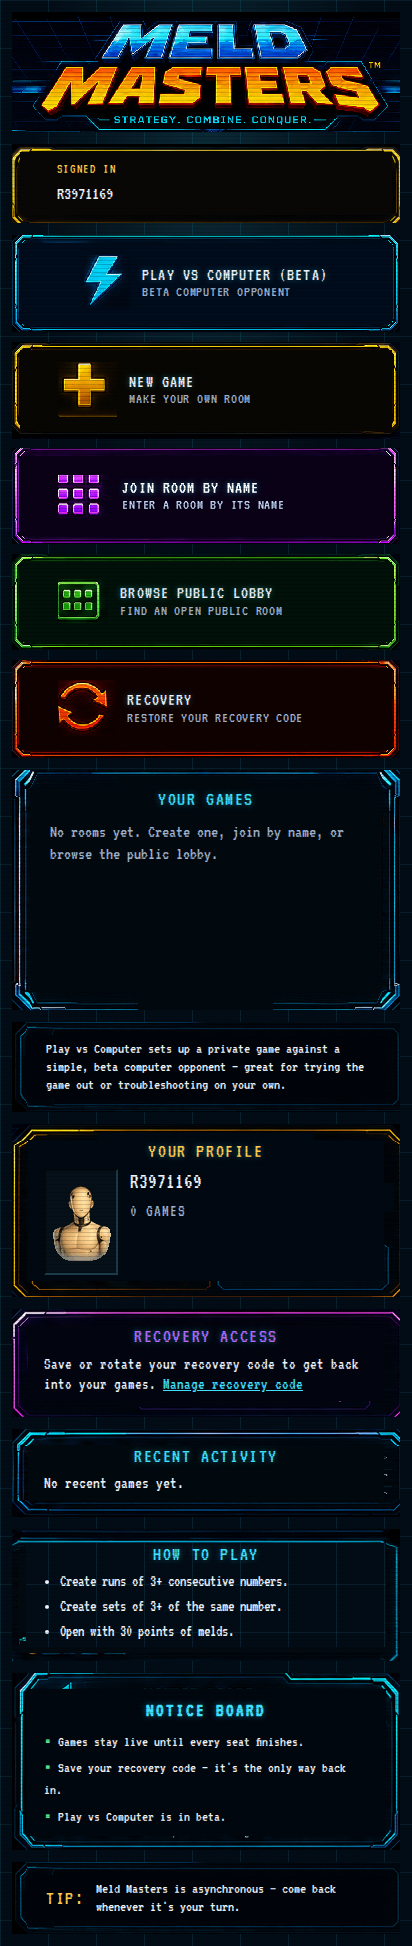
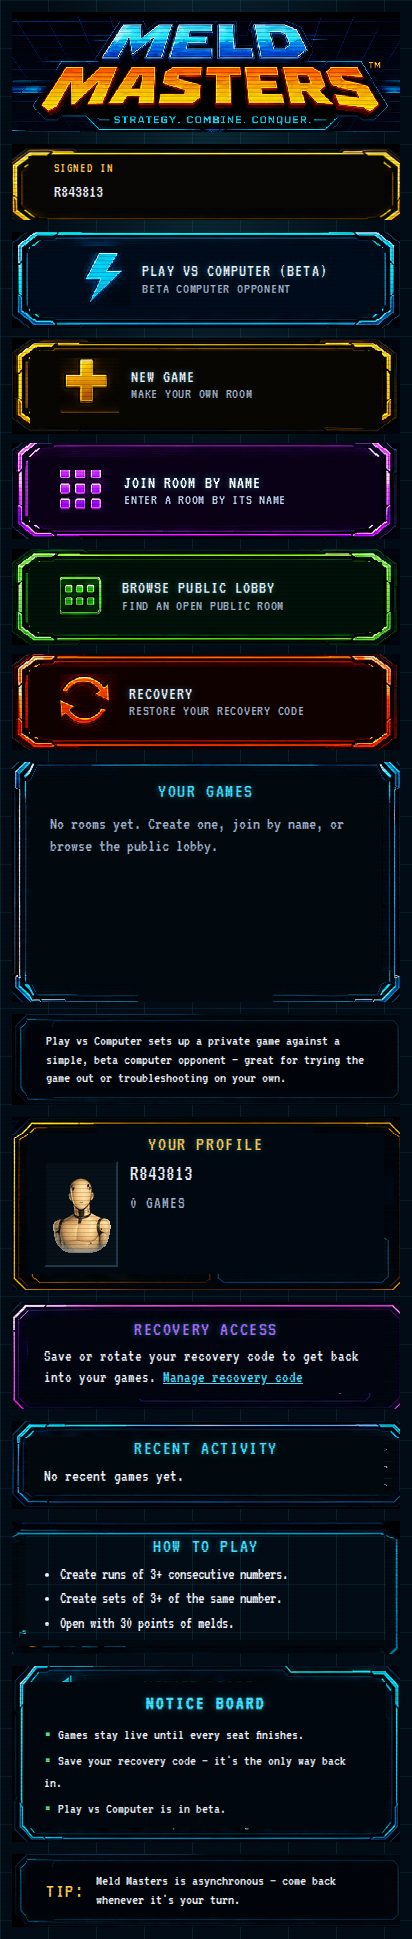
fix(mobile): stretch whole frame art on phone instead of 9-slicing
Round-4 phone polish per review of the round-3 screenshots: the signed-in
badge, gold/purple home plates, competitor cards, rack, and the
draw/pass/commit plates all rendered malformed. Root cause: the concept
frames' braces, slants, and corner cuts don't decompose into
corner-plus-tileable-edge patches, so any 9-slice geometry steps or
smears once a plate is much wider and shorter than its source art. The
designer's own phone comps (mainscreen.jpg, mobile.jpeg) squash each
plate as one piece, so the phone media query now does the same:

- Home plates, signed-in badge, and primary action plates drop their
  border-image for a whole-asset background stretch (new data-plate
  attribute on ArcadePlate selects the per-plate art in CSS).
- Slanted action plates clip to their traced outlines, cutting the page
  background baked into their rectangular crops' corners; the gold plate
  oversizes its background to push its baked bottom band out of the box.
- The rack's band art (header tab erased, big corner curves) is replaced
  with the same clean neon frame the phone board window already uses --
  box-shadow rather than filter so the rack doesn't become a containing
  block for dragged tiles.

Phone-media-scoped; desktop 1440x900 home verified unchanged. 469 unit
tests; arcade-regions + tabletopMobile + mobileOverflow + accessibility
e2e 18/18 (chromium).

Claude-Session: https://claude.ai/code/session_01Cb4e8oJrM1C4jyKvRVtA5U

diff --git a/apps/web/src/styles/arcade-kit.css b/apps/web/src/styles/arcade-kit.css
@@ -2104,24 +2104,7 @@ button.danger:disabled {
 
 /* --------------------------- phone polish round 3 (2026-08-02 feedback) */
 
-/* Home plates on phone: the concept plates' corner braces span ~64x30px
-   of source art -- far larger than the 16px slice used at desktop rail
-   widths -- so full-width phone plates smeared their corners into the
-   stretched edge bands. Slice the full brace geometry and render it at
-   half scale for crisp, complete corners and uniform box heights.
-   (!important: the slice/width come from frameStyle's inline style.) */
 @media (max-width: 900px) {
-  .home-menu-plate {
-    border-image-slice: 30 64 30 64 fill !important;
-    border-width: 15px 32px !important;
-    min-height: 96px;
-  }
-
-  .home-signed-in {
-    border-image-slice: 26 48 26 48 fill !important;
-    border-width: 13px 24px !important;
-  }
-
   /* Board window: straight-sided on phone -- the perspective taper reads
      wrong on a tall scrolling board (user feedback, gameplay.jpg). */
   .tabletop-board {
@@ -2138,5 +2121,105 @@ button.danger:disabled {
   .tabletop-board::after {
     clip-path: none;
     inset: 5px;
+  }
+}
+
+/* --------------------------- phone polish round 4 (2026-08-02 feedback) */
+
+/* On phone, framed chrome stops 9-slicing. The concept frames' braces,
+   slants, and corner cuts don't decompose into corner-plus-tileable-edge
+   patches, so any slice geometry smears or steps once a plate is much
+   wider and shorter than its source art. The designer's own phone comps
+   (mainscreen.jpg, mobile.jpeg) squash each plate as one piece, so do the
+   same: stretch the whole asset edge to edge. Desktop keeps the 9-slice
+   (there the render size tracks the art size closely).
+   (!important: the sliced chrome comes from frameStyle's inline style.) */
+@media (max-width: 900px) {
+  .home-menu-plate,
+  .home-signed-in,
+  .tabletop-actions-primary .tt-plate {
+    border: 0 !important;
+    border-image: none !important;
+    background-repeat: no-repeat;
+    background-size: 100% 100%;
+  }
+
+  .home-menu-plate {
+    min-height: 96px;
+    padding: 0.5rem 3rem;
+  }
+
+  .home-signed-in {
+    min-height: 76px;
+    padding: 0.4rem 2.6rem;
+    background-image: url("../assets/arcade/frame/badge-signed-in.png");
+  }
+
+  .home-menu-plate[data-plate="plate-menu-cyan"] { background-image: url("../assets/arcade/plate/menu-cyan.png"); }
+  .home-menu-plate[data-plate="plate-menu-green"] { background-image: url("../assets/arcade/plate/menu-green.png"); }
+  .home-menu-plate[data-plate="plate-menu-red"] { background-image: url("../assets/arcade/plate/menu-red.png"); }
+  .home-menu-plate[data-plate="plate-menu-purple"] { background-image: url("../assets/arcade/plate/menu-purple.png"); }
+
+  /* Gold art carries ~6px of baked page background under its bottom bar;
+     oversize the background height so that band lands outside the box. */
+  .home-menu-plate[data-plate="plate-menu-gold"] {
+    background-image: url("../assets/arcade/plate/menu-gold.png");
+    background-size: 100% 106%;
+    background-position: top;
+  }
+
+  /* Action plates: the slanted silhouettes keep baked background in their
+     rectangular crops' corners, so clip to the plate outline (a hair
+     outside it, preserving the painted glow). */
+  .tt-plate[data-plate="plate-action-cyan"] {
+    background-image: url("../assets/arcade/plate/action-cyan.png");
+    clip-path: polygon(8% 3%, 100% 3%, 96.5% 96%, 0% 96%);
+  }
+
+  .tt-plate[data-plate="plate-action-purple"] {
+    background-image: url("../assets/arcade/plate/action-purple.png");
+    clip-path: inset(4% 0.5% 2% 0.5%);
+  }
+
+  .tt-plate[data-plate="plate-action-orange"] {
+    background-image: url("../assets/arcade/plate/action-orange.png");
+    clip-path: polygon(0.3% 2.5%, 95.8% 2.5%, 100% 96.7%, 2.9% 96.7%);
+  }
+
+  .tt-plate {
+    padding: 0.35rem 1.4rem;
+  }
+
+  .tt-plate--commit {
+    min-height: 68px;
+    padding: 0.35rem 2.2rem;
+  }
+
+  /* Competitor cards: same whole-art treatment via the tone classes. */
+  .competitor-card {
+    border: 0;
+    border-image: none;
+    background-repeat: no-repeat;
+    background-size: 100% 100%;
+    padding: 1.1rem 0.8rem 0.7rem;
+  }
+
+  .competitor-card--tone-gold { background-image: url("../assets/arcade/card/competitor-gold.png"); }
+  .competitor-card--tone-purple { background-image: url("../assets/arcade/card/competitor-purple.png"); }
+  .competitor-card--tone-pink { background-image: url("../assets/arcade/card/competitor-pink.png"); }
+  .competitor-card--tone-green { background-image: url("../assets/arcade/card/competitor-green.png"); }
+
+  /* Rack: the concept band art loses its header tab to extraction erases
+     and its corner curves smear on a tall box, so use the same clean neon
+     frame the phone board window got. box-shadow, not filter: a filter
+     here would make the rack a containing block for dragged tiles. */
+  .tabletop-rack {
+    border: 2px solid #2cc4e8;
+    border-image: none;
+    background: rgba(6, 16, 28, 0.85);
+    box-shadow:
+      0 0 6px rgba(63, 224, 255, 0.5),
+      inset 0 0 8px rgba(63, 224, 255, 0.15);
+    padding: 0.5rem 0.75rem;
   }
 }

diff --git a/apps/web/src/arcade/ArcadePlate.tsx b/apps/web/src/arcade/ArcadePlate.tsx
@@ -57,6 +57,7 @@ export function ArcadePlate({
       {...buttonProps}
       type={type}
       className={className ? `arcade-kit-plate ${className}` : "arcade-kit-plate"}
+      data-plate={plate}
       style={frameStyle(plate)}
     >
       <PlateContent icon={icon} iconScale={iconScale} label={label} sublabel={sublabel} />
@@ -84,6 +85,7 @@ export function ArcadePlateLink({
     <Link
       to={to}
       className={className ? `arcade-kit-plate ${className}` : "arcade-kit-plate"}
+      data-plate={plate}
       style={frameStyle(plate)}
     >
       <PlateContent icon={icon} iconScale={iconScale} label={label} sublabel={sublabel} />
